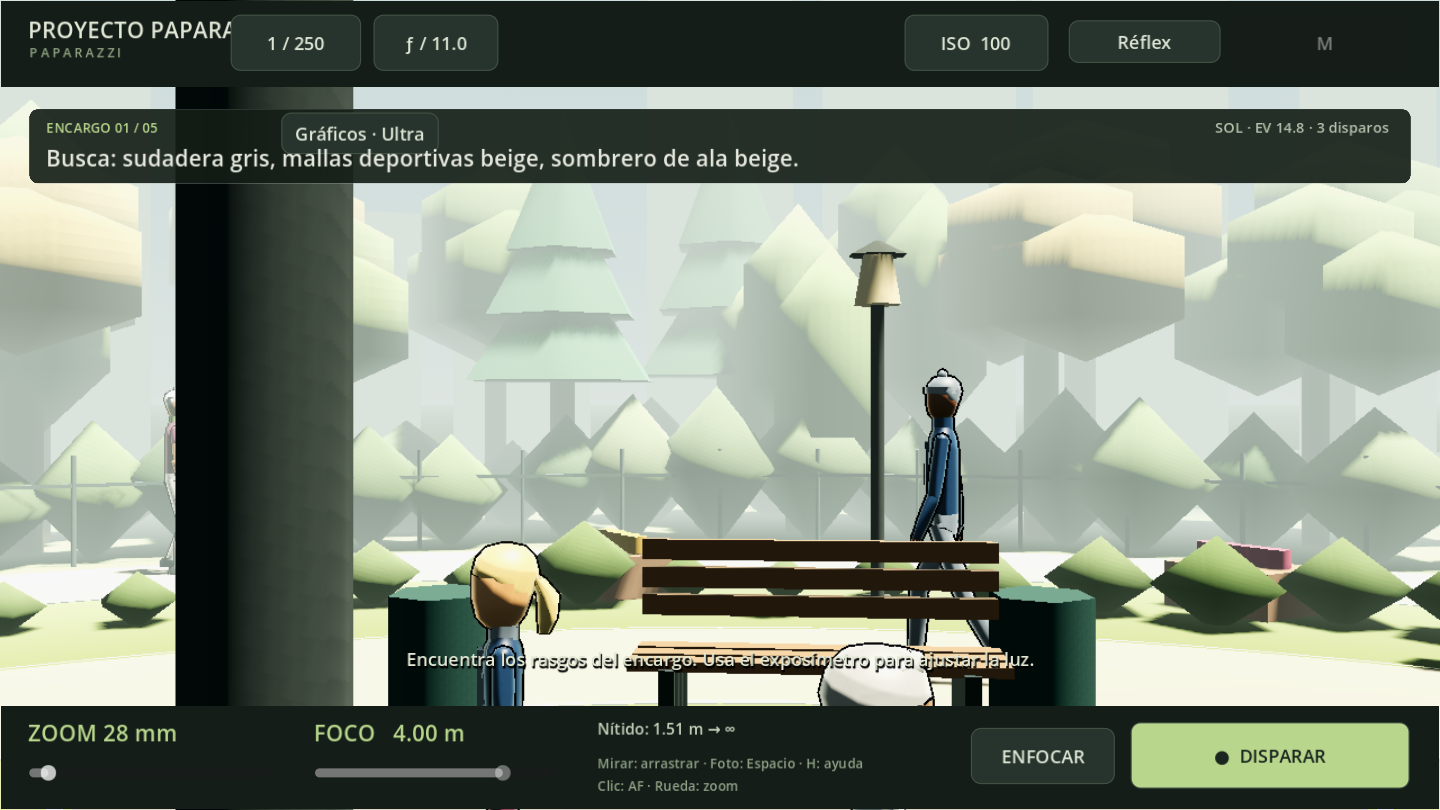
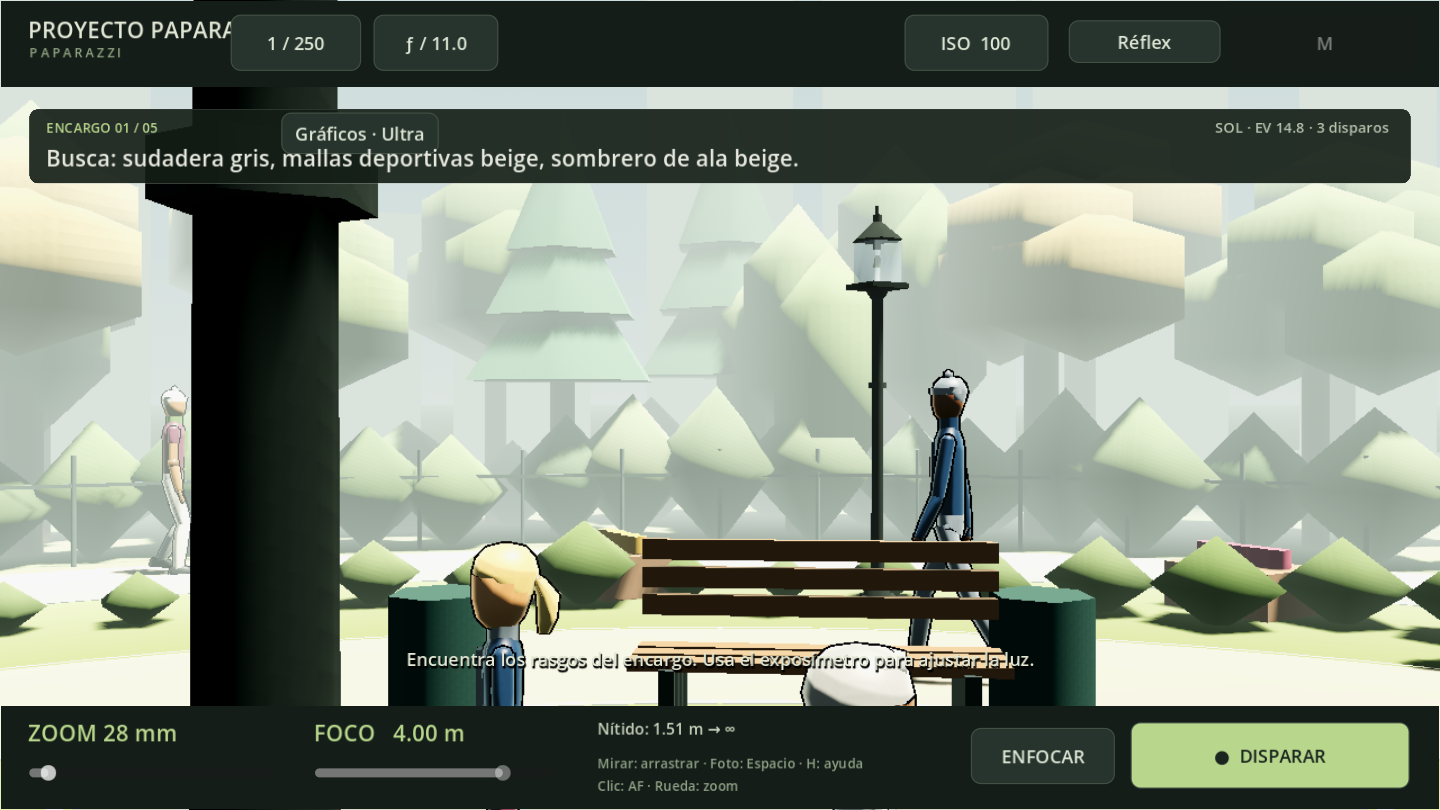
Nuevas farolas

diff --git a/docs/TESTS_Y_VERIFICACION.md b/docs/TESTS_Y_VERIFICACION.md
@@ -79,23 +79,23 @@ Se pasan tras `--` (`godot-4 --path . -- <opción>`):
 
 ## 5. Cifras de Referencia (Fuente Única)
 
-Medidas el **2026-09-26** con **Godot 4.7-stable** (Linux; suites con display bajo Xvfb y Mesa llvmpipe). Cada cifra es la que imprime la suite indicada; si cambia el código, vuelve a ejecutar la suite y actualiza esta tabla.
+Medidas el **2026-09-27** con **Godot 4.7-stable** (Linux; suites con display en GPU Radeon RX 6700 XT). Cada cifra es la que imprime la suite indicada; si cambia el código, vuelve a ejecutar la suite y actualiza esta tabla.
 
 | Cifra | Valor | Límite (invariante) | Fuente |
 |---|:---:|:---:|---|
 | Comprobaciones de óptica | 535, 0 fallos | 0 fallos | `test_photography.gd` |
 | Ensamblajes de personajes | 2.880, 0 fallos | 0 fallos | `test_art.gd` |
 | Triángulos por viandante (**máximo** del catálogo) | 1.690 | ≤ 1.900 | `test_art.gd` |
-| Comprobaciones de prendas | 700, 0 fallos | 0 fallos | `test_art.gd` |
-| Comprobaciones de equipo | 552, 0 fallos | 0 fallos | `test_equipment.gd` |
+| Comprobaciones de prendas | 701, 0 fallos | 0 fallos | `test_art.gd` |
+| Comprobaciones de equipo | 561, 0 fallos | 0 fallos | `test_equipment.gd` |
 | Comprobaciones de marcha | 8.840, 0 fallos | 0 fallos | `test_gait.gd` |
 | Deriva máxima del pie de apoyo | 0.000000 m/fotograma | 0 | `test_gait.gd` |
 | Comprobaciones de navegación | 10, 0 fallos | 0 fallos | `test_navigation.gd` |
 | Viandantes atascados tras 20 s | 0 | 0 | `simulate_jams.gd` |
 | Comprobaciones de expansión | 140, 0 fallos | 0 fallos | `test_expansion.gd` |
-| Comprobaciones de sesión | 23 (ver nota) | 0 fallos | `test_game.gd` |
-| VRAM en sesión completa | 49,93 MiB (texturas 40,93 · buffers 9,00) | < 60 MiB | `test_game.gd` |
-| Triángulos en escena (21 viandantes + parque) | 61.414 | ≤ 100.000 | `--smoke-test` |
+| Comprobaciones de sesión | 34, 0 fallos | 0 fallos | `test_game.gd` |
+| VRAM en sesión completa | 50,06 MiB (texturas 40,93 · buffers 9,13) | < 60 MiB | `test_game.gd` |
+| Triángulos en escena (21 viandantes + parque) | 64.582 | ≤ 100.000 | `--smoke-test` |
 
 **Nota sobre `test_game.gd`**: bajo Xvfb pasaron 22 de 23 comprobaciones; la que falla es la de latencia de 50 ms (ver §1). Hay que confirmar los 23/23 en una máquina con GPU.
 

diff --git a/docs/futuro/02_ESTILO_VISUAL_Y_POLIGONOS.md b/docs/futuro/02_ESTILO_VISUAL_Y_POLIGONOS.md
@@ -637,7 +637,7 @@ Para evitar el riesgo habitual de invertir semanas en tareas pesadas de modelado
 | **Hito 2** | **2.2.4** | Sombras direccionales PCSS con penumbra suave | Bajo (S) | Alto | 🚀 **Quick Win** | 📝 Pendiente | Sombras borrosas según distancia del foco |
 | **Hito 2** | **2.2.5** | Volumetric Fog y motas de polvo flotando en contraluz | Bajo-Medio (S-M) | Alto | 🚀 **Quick Win** | 📝 Pendiente | Atmósfera de taller de modelismo con haz de luz |
 | **Hito 3** | **2.3.1** | Bancos de 7 listones de teca biselados y patas de forja | Bajo (S) | Alto | 🚀 **Quick Win** | ✅ **Hecho** | Acabado físico de forja y teca satinada en `park.gd` |
-| **Hito 3** | **2.3.2** | Farolas de fundición de hierro con cristal y filamento | Medio (M) | Alto | 💎 **Gran Hito** | 📝 Pendiente | Farolas transparentes con iluminación interior cálida |
+| **Hito 3** | **2.3.2** | Farolas de fundición de hierro con cristal y filamento | Medio (M) | Alto | 💎 **Gran Hito** | ✅ **Hecho** | Farolas ornamentales en `park.gd::build_farola_mesh()` con 4 paneles de cristal `TRANSPARENCY_ALPHA`, bombilla con emisión dinámica día/noche y visual en `docs/evidencias/sheets/sheet_mobiliario.png` |
 | **Hito 3** | **2.3.3** | Peana circular de caoba perimetral con placa de latón | Bajo (S) | Alto | 🚀 **Quick Win** | ✅ **Hecho** | Zócalo perimetral de caoba y placa a escala en `park.gd` |
 | **Hito 4** | **2.4.1** | Generador de UVs analíticas cilíndricas en `build_catalog.py` | Medio (M) | Medio | ⚙ Base | 📝 Pendiente | Coordenadas UV uniformes sin costuras visibles |
 | **Hito 4** | **2.4.2** | Remodelado a 16-20 segmentos radiales ultra-suaves | Medio (M) | Alto | 💎 **Gran Hito** | 📝 Pendiente | Maniquíes perfectamente redondeados en teleobjetivo |

diff --git a/docs/ESCENARIO_Y_RENDIMIENTO.md b/docs/ESCENARIO_Y_RENDIMIENTO.md
@@ -70,7 +70,7 @@ Para cerrar visualmente el horizonte y proporcionar un fondo natural continuo tr
   - Luz incidente: **$EV \approx 14.0$** a pleno sol rasante y **$EV \approx 9.6$** en las sombras proyectadas.
 - **Noche**:
   - Sol desactivado / atenuado (`light_energy = 0.035`, tinte nocturno `9caed4`).
-  - 12 farolas cilíndricas con luminarias omnidireccionales cálidas (`ffcd82`, radio de alcance $6.0\text{ m}$) que proyectan sombras directas (`light_energy = 2.2`).
+  - 12 farolas ornamentales de fundición de hierro con pedestal moldurado, 4 paneles de cristal transparente (`TRANSPARENCY_ALPHA`), bombilla con filamento incandescente de emisión activa y luminarias omnidireccionales cálidas (`ffcd82`, radio de alcance $6.0\text{ m}$) que proyectan sombras directas (`light_energy = 2.2`).
   - Luz incidente: **$EV = 2.0$** lejos de farolas; bajo farola $\approx 8.4$ a 1 m, $5.2$ a 3 m y $2.9$ a 5 m.
 
 ### 3.2 Sistema Meteorológico de Nubes
